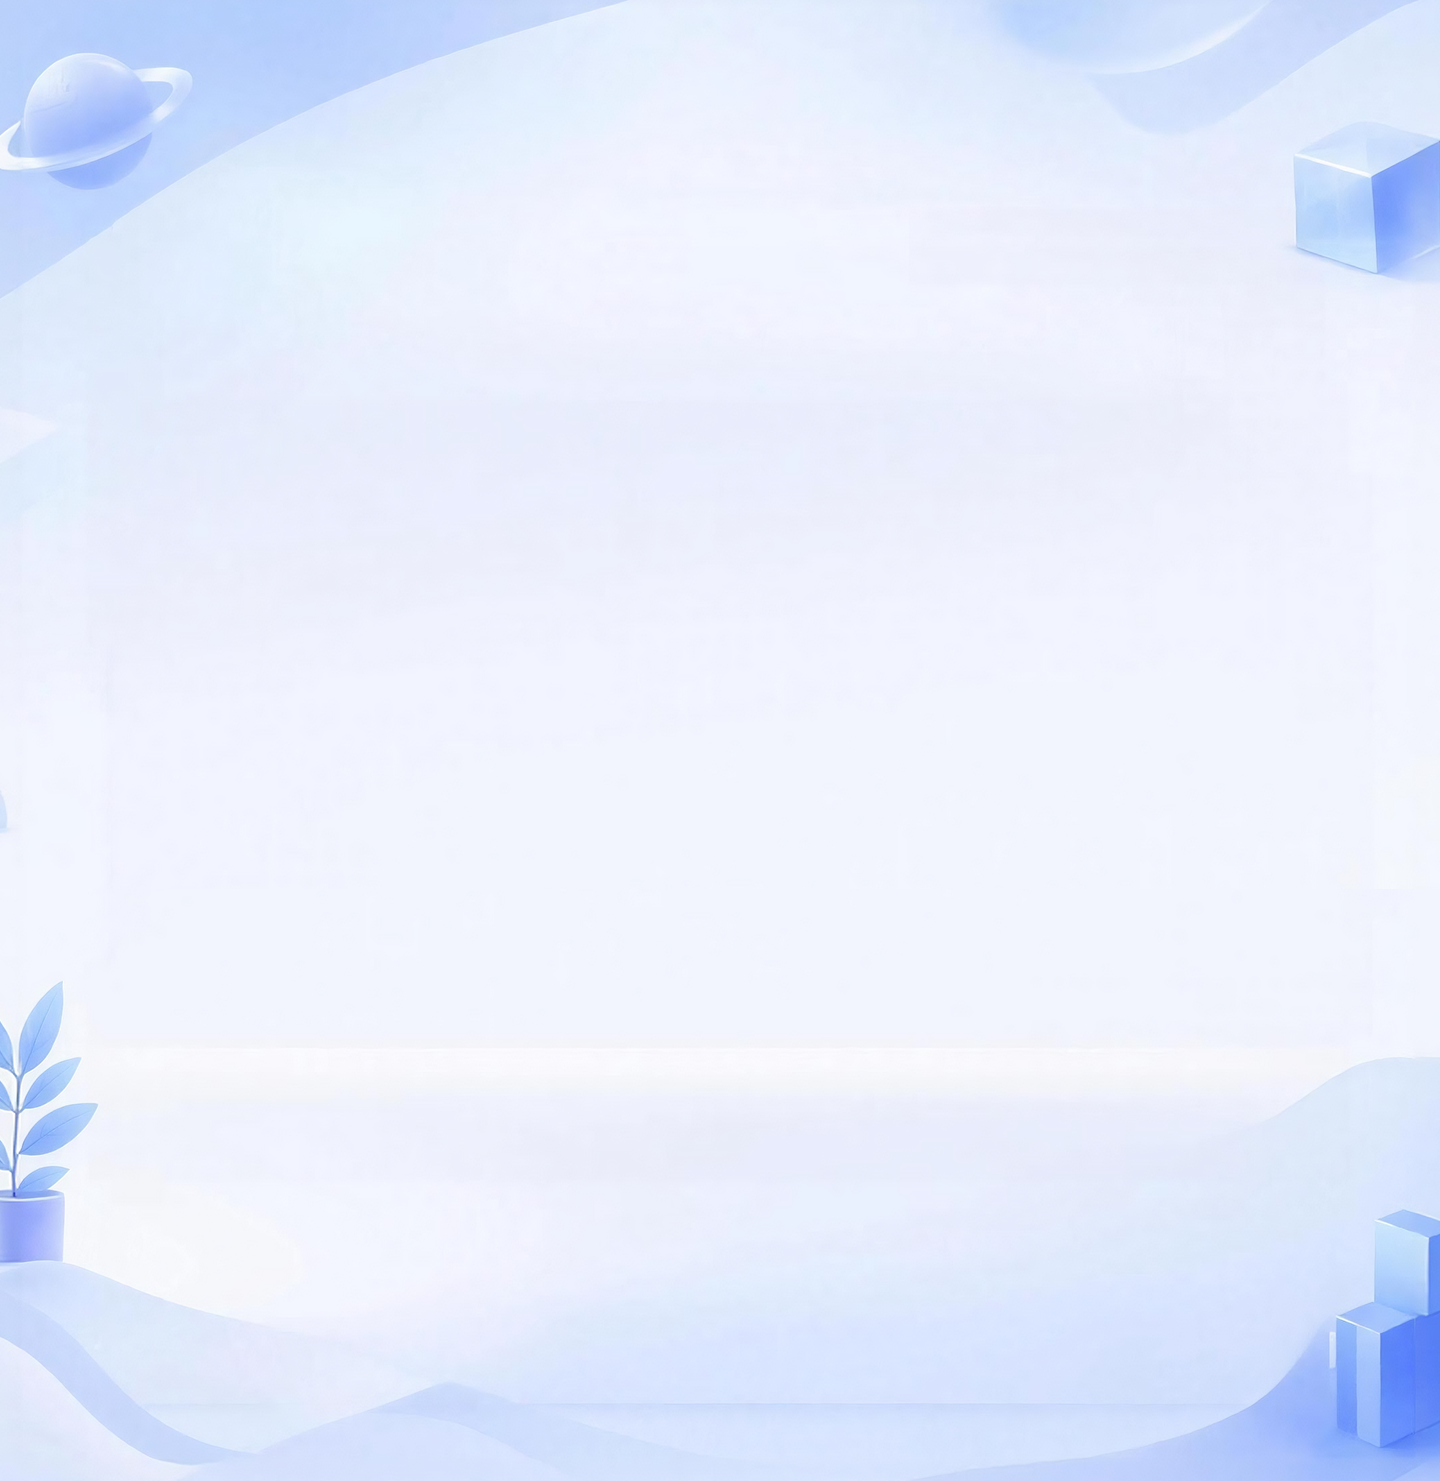
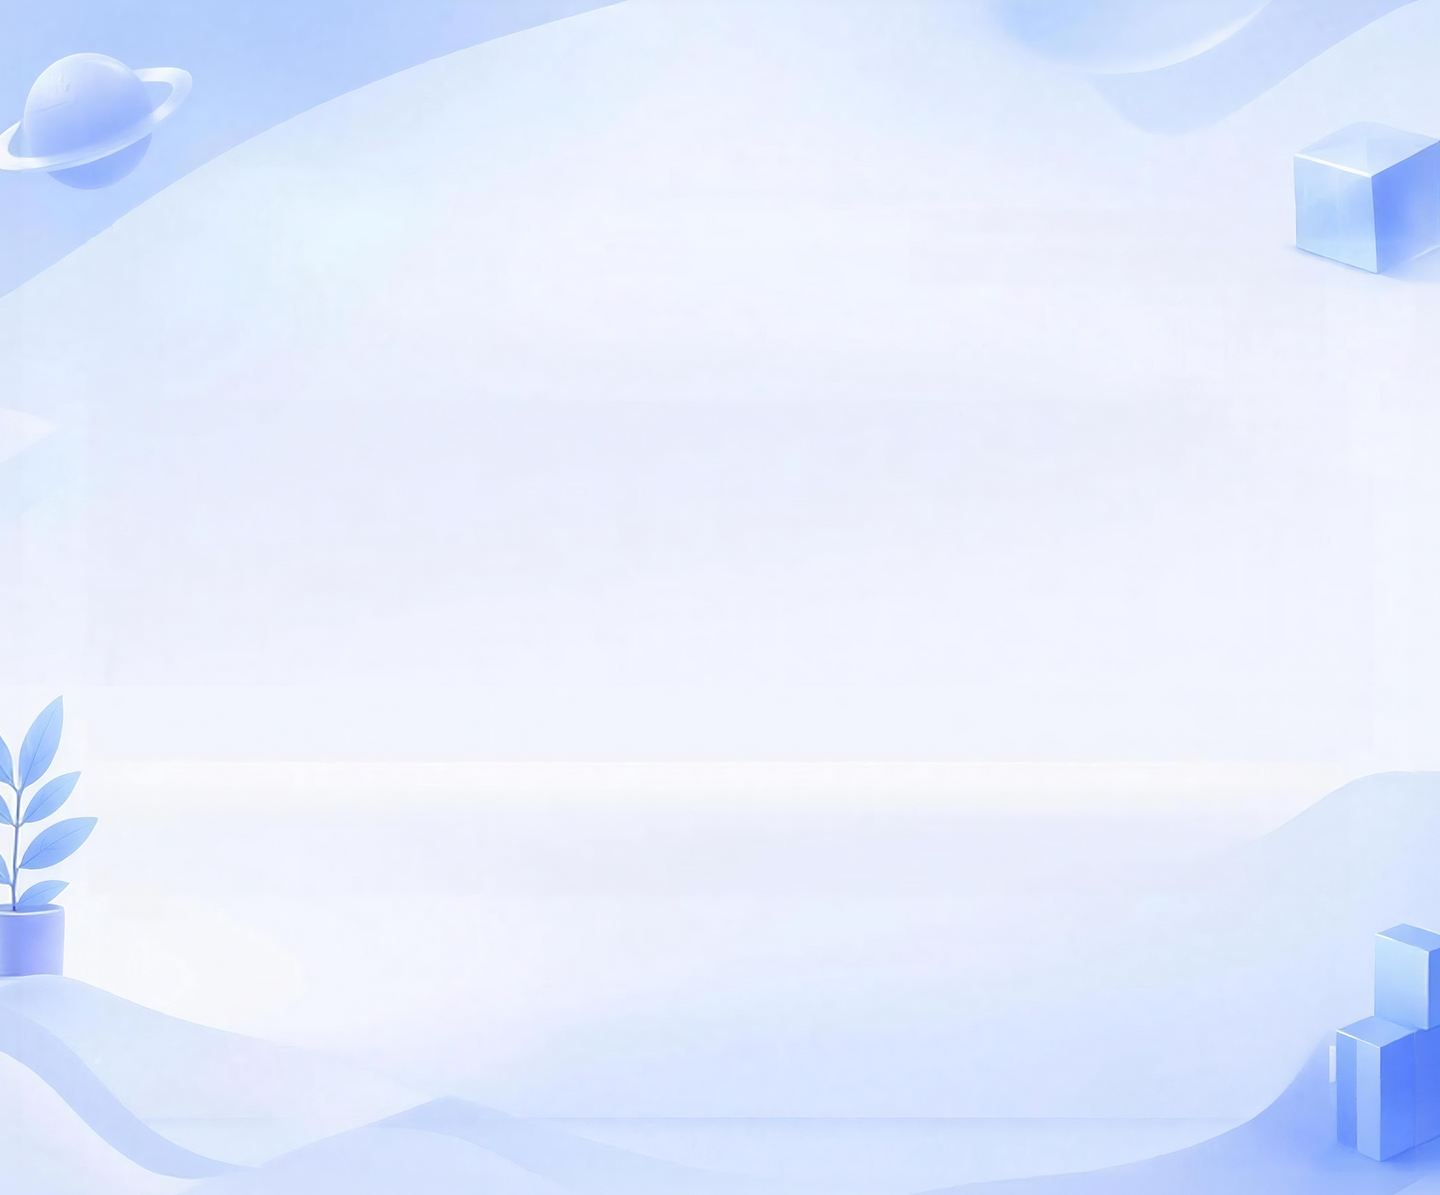
背景框

diff --git a/docs/index.html b/docs/index.html
@@ -430,11 +430,11 @@
       padding-bottom: 6px;
     }
     .mode-group {
-      background: rgba(255, 255, 255, 0.96);
+      background: #fff;
       border-radius: 14px;
-      box-shadow: 0 6px 20px rgba(15, 23, 42, 0.07);
       padding: 10px 10px 12px;
-      border: 1px solid rgba(148, 163, 184, 0.22);
+      border: none;
+      box-shadow: none;
       flex-shrink: 0;
     }
     .group-head {
